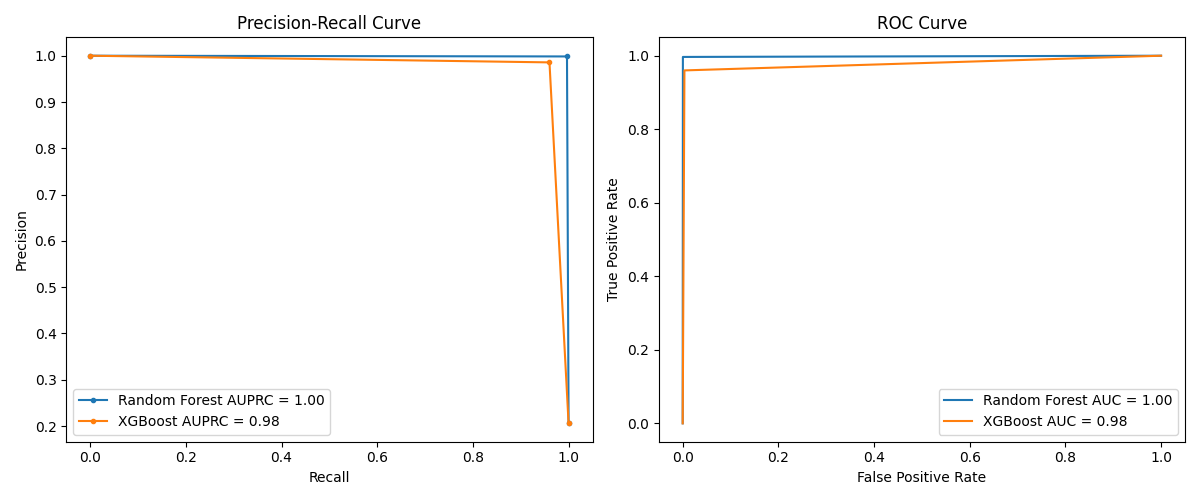
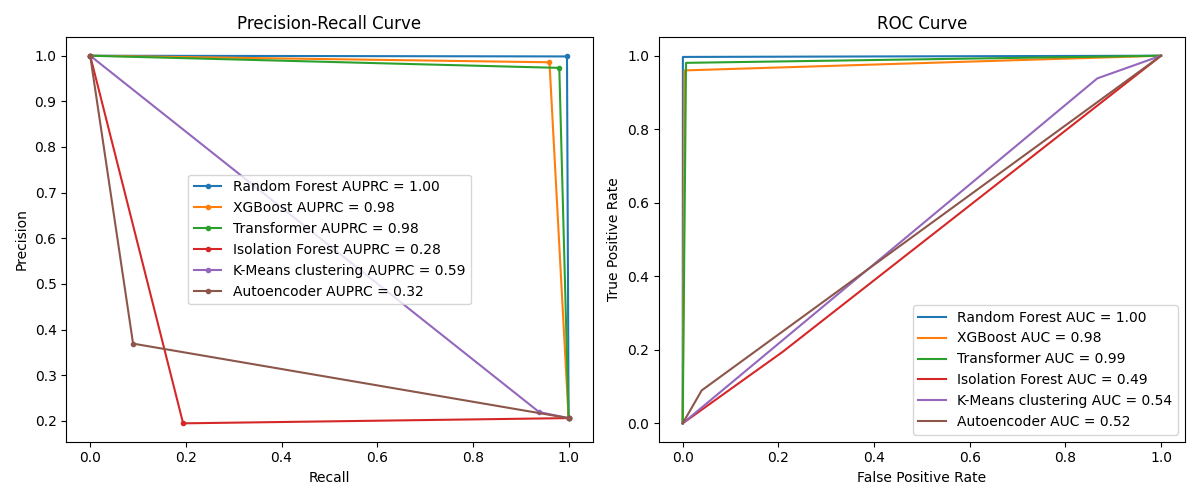
Added new models

diff --git a/bot_anomaly.py b/bot_anomaly.py
@@ -3,14 +3,18 @@ from datetime import datetime
 
 import joblib
 import matplotlib.pyplot as plt
+import numpy as np
 import torch
 import xgboost
-from sklearn.ensemble import RandomForestClassifier
+from sklearn.cluster import KMeans
+from sklearn.ensemble import RandomForestClassifier, IsolationForest
 from sklearn.metrics import classification_report, ConfusionMatrixDisplay
-from sklearn.neighbors import KNeighborsClassifier
+from torch import nn
+import auto_encoder as ae
 
 import data_loader
 from anomaly import plot_precision_recall, plot_roc
+from transformer import compute_class_weights, train_loop, TransformerClassifier, get_optimal_threshold
 
 model_name = 'bot-detection' # TODO: Move this to a config file
 
@@ -19,6 +23,11 @@ device = torch.device('cuda' if torch.cuda.is_available() else 'cpu')
 
 if __name__ == '__main__':
     X_train_scaled, X_test_scaled, y_train, y_test, le_country, le_query = data_loader.load_bot_detection_data()
+    # convert xs to numpy array
+    x_train_numpy = X_train_scaled.to_numpy()
+    x_test_numpy = X_test_scaled.to_numpy()
+    train_loader, test_loader = data_loader.create_dataloaders(x_train_numpy, x_test_numpy, use_gpu=torch.cuda.is_available())
+    class_train_loader, class_test_loader = data_loader.create_classification_dataloaders(x_train_numpy, x_test_numpy, y_train, y_test)
 
     start_time = datetime.now()
     # Train and test anomaly detection models
@@ -72,6 +81,114 @@ if __name__ == '__main__':
     # start_time = datetime.now()
     # pred_knn = knn.predict(X_test_scaled)
     # print(f"K-NN prediction completed in {(datetime.now() - start_time).seconds} seconds")
+    # 4. Transformer
+    # Define the Transformer model
+    transformer_model = TransformerClassifier(input_dim=X_train_scaled.shape[1])
+    transformer_model = transformer_model.to(device)
+    transformer_model_path = model_path + 'transformer.pth'
+    if os.path.exists(transformer_model_path):
+        print(f"\nLoading Transformer model from {transformer_model_path}...")
+        transformer_model.load_state_dict(torch.load(transformer_model_path, map_location=device))
+        print(f"Transformer model loaded in {(datetime.now() - start_time).seconds} seconds")
+    else:
+        # Train the model if it's not already saved
+        print("\nTraining Transformer...")
+        class_weights = compute_class_weights(y_train)
+        class_weights = class_weights.to(device)
+        pos_weight = class_weights[1] / class_weights[0]
+        criterion = nn.BCEWithLogitsLoss(pos_weight=pos_weight)
+
+        train_loop(transformer_model, class_train_loader, class_test_loader, criterion, transformer_model_path, device, epochs=5)
+        transformer_model.load_state_dict(torch.load(transformer_model_path, map_location=device))
+        print(f"Transformer model training completed in {(datetime.now() - start_time).seconds} seconds, weights saved to {transformer_model_path}")
+
+    # Transformer evaluation
+    transformer_model.eval()
+    all_labels_transformer = []
+    all_probs_transformer = []
+
+    with torch.no_grad():
+        for inputs, labels in class_test_loader:
+            inputs = inputs.to(device)
+            labels = labels.to(device)
+
+            outputs = transformer_model(inputs)
+            probs = torch.sigmoid(outputs)
+
+            all_labels_transformer.extend(labels.cpu().numpy())
+            all_probs_transformer.extend(probs.cpu().numpy())
+
+    # Determine optimal threshold
+    optimal_threshold, best_f1 = get_optimal_threshold(np.array(all_labels_transformer), np.array(all_probs_transformer))
+    preds_transformer = (np.array(all_probs_transformer) >= optimal_threshold).astype(int)
+
+    contamination = 0.2 if model_name == 'cic-unsw-nb15' else y_train.sum() / len(y_train)
+    print(f"Contamination: {contamination}")
+
+    start_time = datetime.now()
+    # Train and test anomaly detection models
+    # 5. Isolation Forest
+    # Check if the model has already been trained
+    ISOFOREST_model_path = model_path + 'iso_forest.pkl'
+    if os.path.exists(ISOFOREST_model_path):
+        print(f"\nLoading Isolation Forest from {ISOFOREST_model_path}...")
+        isolation_forest = joblib.load(ISOFOREST_model_path)
+        print(f"Isolation Forest loaded in {(datetime.now() - start_time).seconds} seconds")
+    else:
+        print("\nTraining Isolation Forest...")
+        isolation_forest = IsolationForest(contamination=contamination)
+        isolation_forest.fit(X_train_scaled)
+        # Save the model
+        joblib.dump(isolation_forest, ISOFOREST_model_path)
+        print(f"Isolation Forest training completed in {(datetime.now() - start_time).seconds} seconds, predicting...")
+    pred_if = isolation_forest.predict(X_test_scaled)
+    pred_if = np.where(pred_if == 1, np.array(0, dtype=pred_if.dtype),
+                       np.array(1, dtype=pred_if.dtype))  # Convert 1 (normal) to 0 and -1 (anomaly) to 1
+
+    start_time = datetime.now()
+    # 6. K-Means clustering
+    # Check if the model has already been trained
+    KMEANS_model_path = model_path + 'kmeans.pkl'
+    if os.path.exists(KMEANS_model_path):
+        print(f"\nLoading K-Means from {KMEANS_model_path}...")
+        kmeans = joblib.load(KMEANS_model_path)
+        print(f"K-Means loaded in {(datetime.now() - start_time).seconds} seconds")
+    else:
+        print("\nTraining K-Means...")
+        kmeans = KMeans(n_clusters=2, random_state=0)
+        kmeans.fit(X_train_scaled)
+        # Save the model
+        joblib.dump(kmeans, KMEANS_model_path)
+        print(f"K-Means training completed in {(datetime.now() - start_time).seconds} seconds, predicting...")
+    pred_kmeans = kmeans.predict(X_test_scaled)
+    pred_kmeans = np.where(pred_kmeans == 1, np.array(0, dtype=pred_if.dtype),
+                           np.array(1, dtype=pred_if.dtype))  # Convert 1 (normal) to 0 and -1 (anomaly) to 1
+
+    start_time = datetime.now()
+    # 7. Autoencoder
+    # Define the autoencoder model
+    autoencoder_model = ae.Autoencoder(input_dim=X_train_scaled.shape[1])
+    ae_model_path = model_path + 'autoencoder.pth'
+
+    # Load the trained model if it exists
+    if os.path.exists(ae_model_path):
+        print(f"\nLoading Autoencoder from {ae_model_path}...")
+        autoencoder_model.load_state_dict(torch.load(ae_model_path, map_location=device))
+        print(f"Autoencoder model loaded in {(datetime.now() - start_time).seconds} seconds")
+    else:
+        # Train the model if it's not already saved
+        print("\nTraining Autoencoder...")
+        autoencoder_model = ae.train_autoencoder(autoencoder_model, train_loader, device, epochs=10, lr=0.001)
+        torch.save(autoencoder_model.state_dict(), ae_model_path)
+        print(
+            f"Autoencoder model training completed in {(datetime.now() - start_time).seconds} seconds, weights saved to {ae_model_path}")
+    autoencoder_model = autoencoder_model.to(device)
+    # Get reconstruction error on the test data
+    reconstruction_error = ae.get_reconstruction_error(autoencoder_model, test_loader, device)
+    # Set a threshold for anomaly detection
+    threshold = np.percentile(reconstruction_error, 95)
+    # Get predictions based on the threshold
+    pred_ae = np.where(reconstruction_error > threshold, 1, 0)
 
     values_format = "d"  # The number format to use for the confusion matrix values
     print("\n--- Evaluation Results ---\n")
@@ -100,6 +217,35 @@ if __name__ == '__main__':
     # plt.title("K-NN Confusion Matrix")
     # plt.savefig(plot_path + 'KNNcm.png')
 
+    # Transformer evaluation
+    print("Transformer:")
+    print(classification_report(y_test, preds_transformer))
+    cm_transformer = ConfusionMatrixDisplay.from_predictions(y_test, preds_transformer, display_labels=["Non-Fraud", "Fraud"],
+                                                             values_format=values_format)
+    plt.title("Transformer Confusion Matrix")
+    plt.savefig(plot_path + 'Transformercm.png')
+
+    print("Isolation forest:")
+    print(classification_report(y_test, pred_if))
+    cm_isolation_forest = ConfusionMatrixDisplay.from_predictions(y_test, pred_if, display_labels=["Non-Fraud", "Fraud"],
+                                                                  values_format=values_format)
+    plt.title("Isolation Forest Confusion Matrix")
+    plt.savefig(plot_path + 'IsolationForestcm.png')
+
+    print("K-Means clustering:")
+    print(classification_report(y_test, pred_kmeans))
+    cm_kmeans = ConfusionMatrixDisplay.from_predictions(y_test, pred_kmeans, display_labels=["Non-Fraud", "Fraud"],
+                                                        values_format=values_format)
+    plt.title("K-Means clustering Confusion Matrix")
+    plt.savefig(plot_path + 'Kmeanscm.png')
+
+    print("Autoencoder:")
+    print(classification_report(y_test, pred_ae))
+    cm_autoencoder = ConfusionMatrixDisplay.from_predictions(y_test, pred_ae, display_labels=["Non-Fraud", "Fraud"],
+                                                             values_format=values_format)
+    plt.title("Autoencoder Confusion Matrix")
+    plt.savefig(plot_path + 'Autoencodercm.png')
+
     plt.show()
 
     # Plot precision-recall and ROC for each model
@@ -108,11 +254,19 @@ if __name__ == '__main__':
     plot_precision_recall(y_test, pred_rf, 'Random Forest')
     plot_precision_recall(y_test, pred_xgb, 'XGBoost')
     # plot_precision_recall(y_test, pred_knn, 'K-NN')
+    plot_precision_recall(y_test, preds_transformer, 'Transformer')
+    plot_precision_recall(y_test, pred_if, 'Isolation Forest')
+    plot_precision_recall(y_test, pred_kmeans, 'K-Means clustering')
+    plot_precision_recall(y_test, pred_ae, 'Autoencoder')
     plt.legend()
     plt.subplot(1, 2, 2)
     plot_roc(y_test, pred_rf, 'Random Forest')
     plot_roc(y_test, pred_xgb, 'XGBoost')
     # plot_roc(y_test, pred_knn, 'K-NN')
+    plot_roc(y_test, preds_transformer, 'Transformer')
+    plot_roc(y_test, pred_if, 'Isolation Forest')
+    plot_roc(y_test, pred_kmeans, 'K-Means clustering')
+    plot_roc(y_test, pred_ae, 'Autoencoder')
     plt.legend()
     plt.tight_layout()
     plt.savefig(plot_path + 'PRAndRoc.png')

diff --git a/data_loader.py b/data_loader.py
@@ -354,13 +354,13 @@ def load_bot_detection_data(data_path="data/bot-detection/bot.txt", random_state
     df["date"] = df["timestamp"].str.split(" ").str[0]
     df["time"] = df["timestamp"].str.split(" ").str[1]
     df["split"] = df["date"].str.split("-")
-    df["year"] = df["split"].str[0]
-    df["month"] = df["split"].str[1]
-    df["day"] = df["split"].str[2]
+    df["year"] = df["split"].str[0].astype(int)
+    df["month"] = df["split"].str[1].astype(int)
+    df["day"] = df["split"].str[2].astype(int)
     df["split"] = df["time"].str.split(":")
-    df["hour"] = df["split"].str[0]
-    df["minute"] = df["split"].str[1]
-    df["second"] = df["split"].str[2]
+    df["hour"] = df["split"].str[0].astype(int)
+    df["minute"] = df["split"].str[1].astype(int)
+    df["second"] = df["split"].str[2].astype(int)
 
     df.drop(columns=["timestamp", "date", "time", "split"], inplace=True)
 
@@ -406,11 +406,11 @@ def load_bot_detection_data(data_path="data/bot-detection/bot.txt", random_state
 
 
 
-def create_dataloader(x, batch_size=64, shuffle=True, use_gpu=False):
+def create_dataloader(x: np.ndarray, batch_size=64, shuffle=True, use_gpu=False):
     """
     Convert NumPy array to PyTorch tensor and then to DataLoader
 
-    :param x: Features
+    :param x: Features (numpy ndarray)
     :param batch_size: Batch size for the DataLoader
     :param shuffle: Whether to shuffle the data (Should be true for Train and False for Test)
     :param use_gpu: Whether to use GPU for training
@@ -449,14 +449,14 @@ def create_classification_dataloader(x, y: pd.Series, batch_size=64, shuffle=Tru
     return dataloader
 
 
-def create_classification_dataloaders(x_train, x_test, y_train, y_test, batch_size=64):
+def create_classification_dataloaders(x_train: np.ndarray, x_test: np.ndarray, y_train: pd.Series, y_test: pd.Series, batch_size=64):
     """
     Convert NumPy arrays to PyTorch tensors and then to DataLoaders for classification.
 
-    :param x_train: Training features
-    :param x_test: Test features
-    :param y_train: Training labels
-    :param y_test: Test labels
+    :param x_train: Training features (numpy ndarray)
+    :param x_test: Test features (numpy ndarray)
+    :param y_train: Training labels (Pandas Series)
+    :param y_test: Test labels (Pandas Series)
     :param batch_size: Batch size for DataLoaders
     :return: Training and test DataLoaders
     """

diff --git a/README.md b/README.md
@@ -597,6 +597,70 @@ Train time: ~20 seconds
 
 ---
 
+### Transformer
+
+Train time: ~4454 seconds ( ~74 minutes)
+
+|              | precision | recall | f1-score | support |
+|--------------|-----------|--------|----------|---------|
+| 0.0          | 0.99      | 1.00   | 0.99     | 1193508 |
+| 1.0          | 0.97      | 0.98   | 0.98     | 309418  |
+| accuracy     |           |        | 0.99     | 1502926 |
+| macro avg    | 0.98      | 0.99   | 0.99     | 1502926 |
+| weighted avg | 0.99      | 0.99   | 0.99     | 1502926 |
+
+![covariance matrix](images/bot-detection/Transformercm.png)
+
+---
+
+### Isolation Forest
+
+Train time: ~3 seconds
+
+|              | precision | recall | f1-score | support |
+|--------------|-----------|--------|----------|---------|
+| 0.0          | 0.79      | 0.79   | 0.79     | 1193508 |
+| 1.0          | 0.19      | 0.19   | 0.19     | 309418  |
+| accuracy     |           |        | 0.67     | 1502926 |
+| macro avg    | 0.49      | 0.49   | 0.49     | 1502926 |
+| weighted avg | 0.67      | 0.67   | 0.67     | 1502926 |
+
+![covariance matrix](images/bot-detection/IsolationForestcm.png)
+
+---
+
+### K-Means
+
+Train time: ~9 seconds
+
+|              | precision | recall | f1-score | support |
+|--------------|-----------|--------|----------|---------|
+| 0.0          | 0.89      | 0.13   | 0.23     | 1193508 |
+| 1.0          | 0.22      | 0.94   | 0.36     | 309418  |
+| accuracy     |           |        | 0.30     | 1502926 |
+| macro avg    | 0.56      | 0.54   | 0.29     | 1502926 |
+| weighted avg | 0.75      | 0.30   | 0.26     | 1502926 |
+
+![covariance matrix](images/bot-detection/Kmeanscm.png)
+
+---
+
+### Autoencoder
+
+Train time: ~3567 seconds ( ~59 minutes)
+
+|              | precision | recall | f1-score | support |
+|--------------|-----------|--------|----------|---------|
+| 0.0          | 0.80      | 0.96   | 0.87     | 1193508 |
+| 1.0          | 0.37      | 0.09   | 0.14     | 309418  |
+| accuracy     |           |        | 0.78     | 1502926 |
+| macro avg    | 0.59      | 0.52   | 0.51     | 1502926 |
+| weighted avg | 0.71      | 0.78   | 0.72     | 1502926 |
+
+![covariance matrix](images/bot-detection/Autoencodercm.png)
+
+---
+
 ### PR + ROC Curves
 
 ![PR+Roc.png](images/bot-detection/PRAndRoc.png)
@@ -846,11 +910,12 @@ I added a Random Forest and an XGBoost model to the project, as these models wor
 
 ### Progress
 
-I added a K-NN model to the project, as it works with text input and is a simple model that can be used for comparison with the other models. This model takes a very long time to predict, so long, that it didn't finish prediction on the test dataset in the couple of hours that I ran it.
+I added a K-NN model to the project, as it works with text input and is a simple model that can be used for comparison with the other models. This model takes a very long time to predict, so long, that it didn't finish prediction on the test dataset in the couple of hours that I ran it.  
+I also made it so the Transformer, Isolation Forest and Autoencoder models work with the bot detection dataset, and compared them to the other models.
 
 ### Next week's goals
 
-- 
+- Add presentation that covers my progress on the project
 
 ---
 
